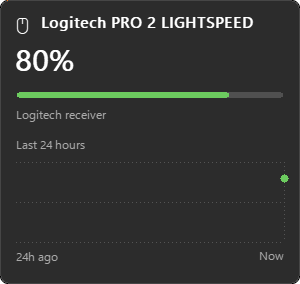
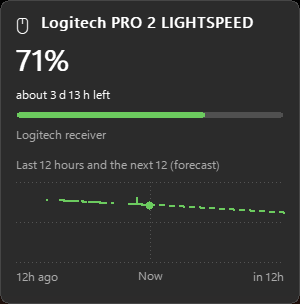
README: new screenshots (card with forecast, taskbar)

diff --git a/README.md b/README.md
@@ -17,8 +17,8 @@ in about <b>0.2 MB of RAM</b>.
 </p>
 
 <p align="center">
-<img src="res/screenshot-card.png" width="300" alt="Hover card: Logitech PRO 2 LIGHTSPEED, 80%, level bar, Logitech receiver, chart of the last 24 hours"><br>
-<img src="res/screenshot-taskbar.png" width="390" alt="BatteryHub on the Windows 11 taskbar next to the notification area: headset 88%, mouse 80%">
+<img src="res/screenshot-card.png" width="300" alt="Hover card: Logitech PRO 2 LIGHTSPEED, 71%, about 3 d 13 h left, level bar, Logitech receiver, chart of the last 12 hours and a 12-hour forecast"><br>
+<img src="res/screenshot-taskbar.png" width="415" alt="BatteryHub on the Windows 11 taskbar next to the notification area: headset 72%, mouse 71%">
 </p>
 
 > [!IMPORTANT]
